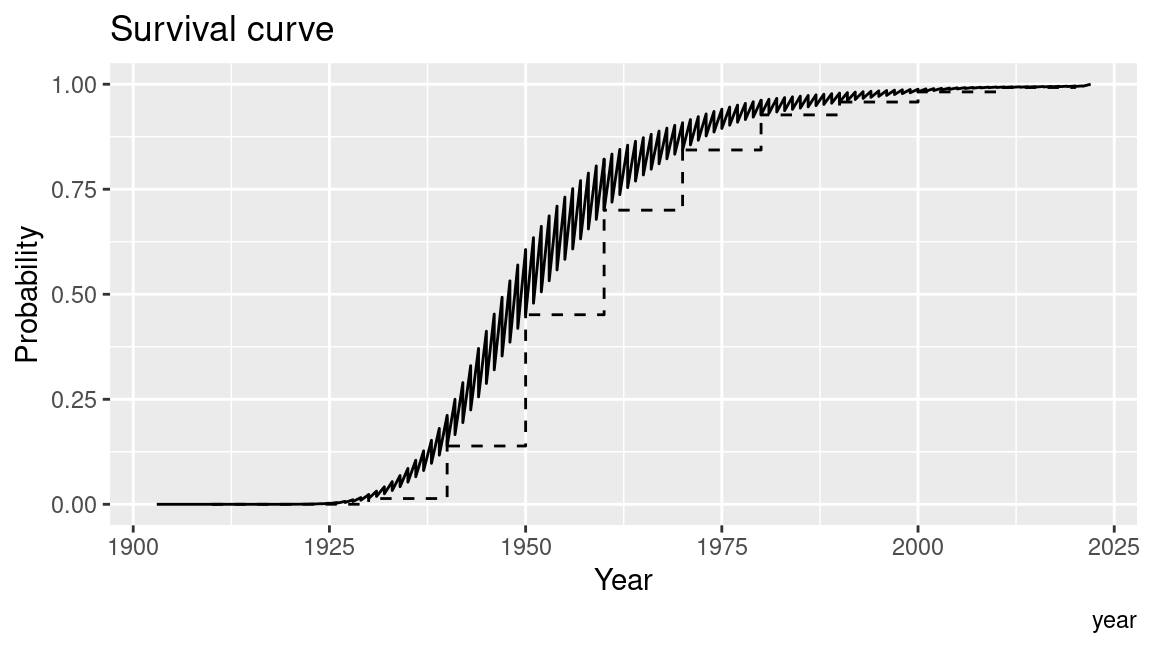
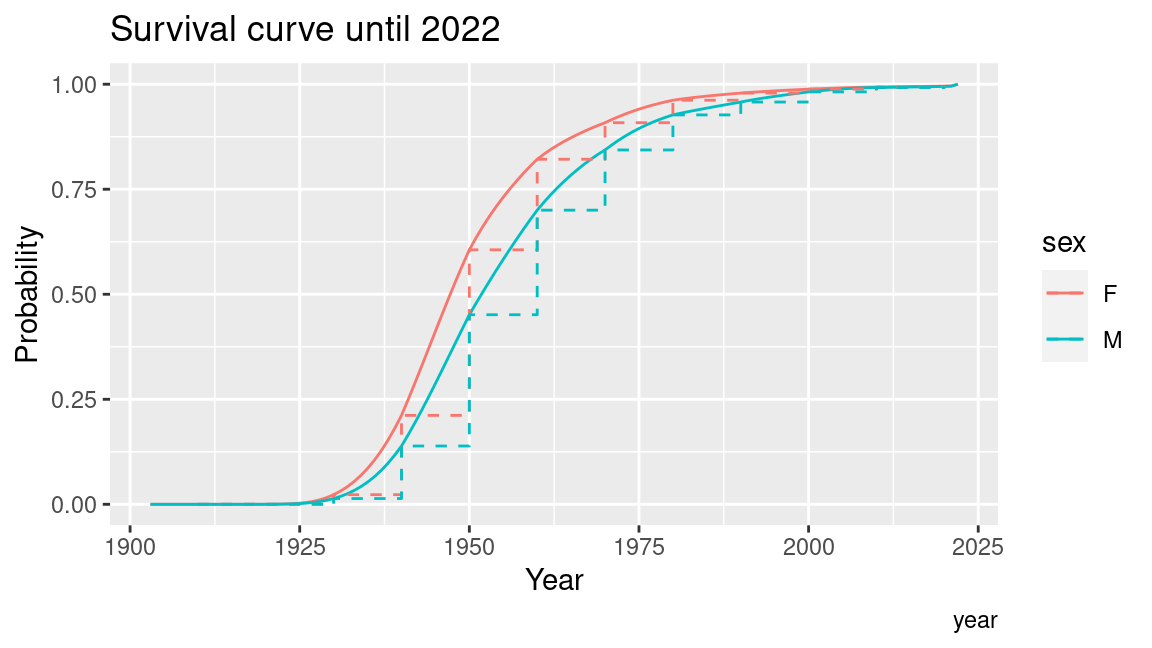
project 2 submission

diff --git a/projects/project-02/project-02-estimate-age-from-name.md b/projects/project-02/project-02-estimate-age-from-name.md
@@ -251,7 +251,7 @@ tbl_lifetables_extended_2022 <- tbl_lifetables_extended |>
 
 tbl_lifetables_extended_2022 |> 
   # Initialize a ggplot of year vs. probability of being alive (lx/10^5)
-    ggplot(aes(x = year, y = lx/10^5)) +
+    ggplot(aes(x = year, y = lx/10^5, color = sex)) +
   # Add a line layer
     geom_line() +
   # Add a step layer for the non-imputed data
@@ -260,7 +260,7 @@ tbl_lifetables_extended_2022 |>
     linetype = 'dashed'
   ) +
   # Add labels (title, subtitle, x, y, caption)
-    labs(title = "Survival curve", x = "Year", y ="Probability", caption = "year")
+    labs(title = "Survival curve until 2022", x = "Year", y ="Probability", caption = "year")
 ```
 
 <img src="img/plot-lifetables-extended-1.png" width="100%" style="display: block; margin: auto;" />
@@ -349,13 +349,13 @@ estimate_age_stats <- function(tbl) {
 
 tbl_names_extended |> 
   # Filter for Gertrude/F
-  dplyr::filter(name == "William", sex == "M") |>
+  dplyr::filter(name == "Gertrude", sex == "F") |>
   # Estimate age stats
   estimate_age_stats()
 #> # A tibble: 1 × 7
 #>   `  0%` ` 25%` ` 50%` ` 75%` `100%` p_alive age_median
 #>    <dbl>  <dbl>  <dbl>  <dbl>  <dbl>   <dbl>      <dbl>
-#> 1      1     28     48     64    106   0.480       45.3
+#> 1      1     63     72     79    106  0.0659       68.2
 ```
 
 Let us write another function that plots the age distribution for a
